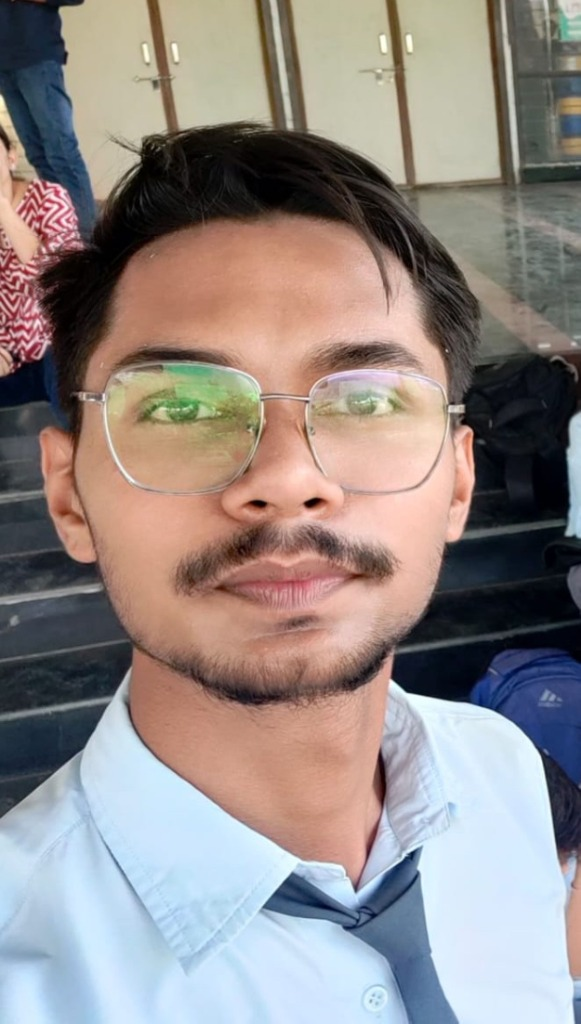
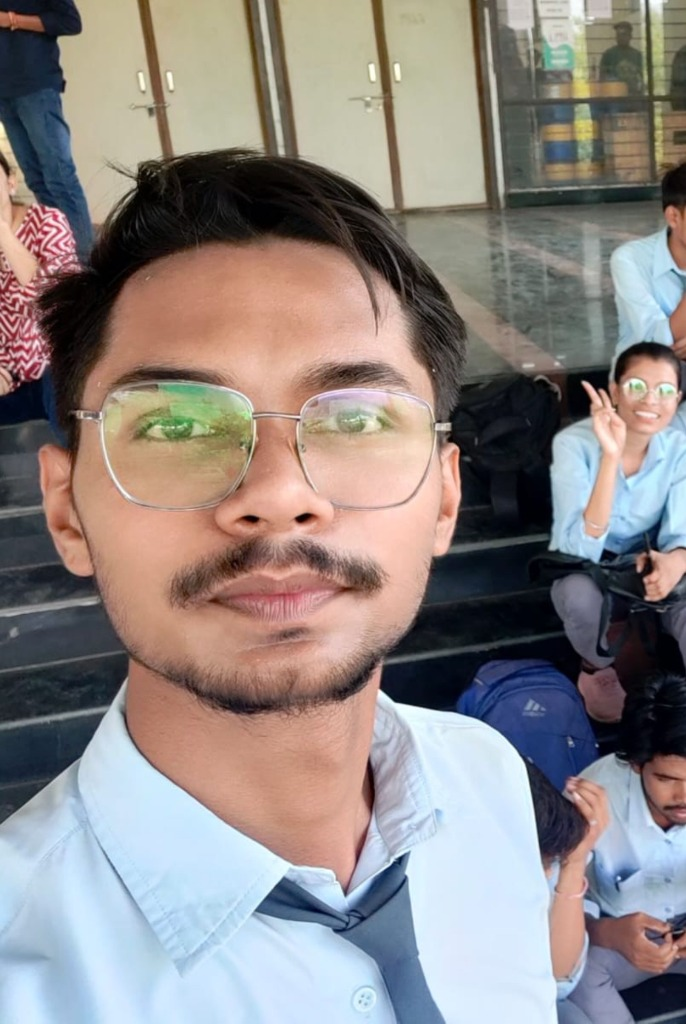
Update Aditya profile photo with focused group selfie crop

diff --git a/app/about/page.js b/app/about/page.js
@@ -113,7 +113,7 @@ export default function AboutPage() {
                   onError={() => {
                     if (makerImg !== '/maker.svg') setMakerImg('/maker.svg');
                   }}
-                  className="w-full h-full object-cover object-[50%_42%] transition-transform duration-300 group-hover:scale-105"
+                  className="w-full h-full object-cover object-[38%_42%] transition-transform duration-300 group-hover:scale-105"
                 />
               </div>
             </div>
